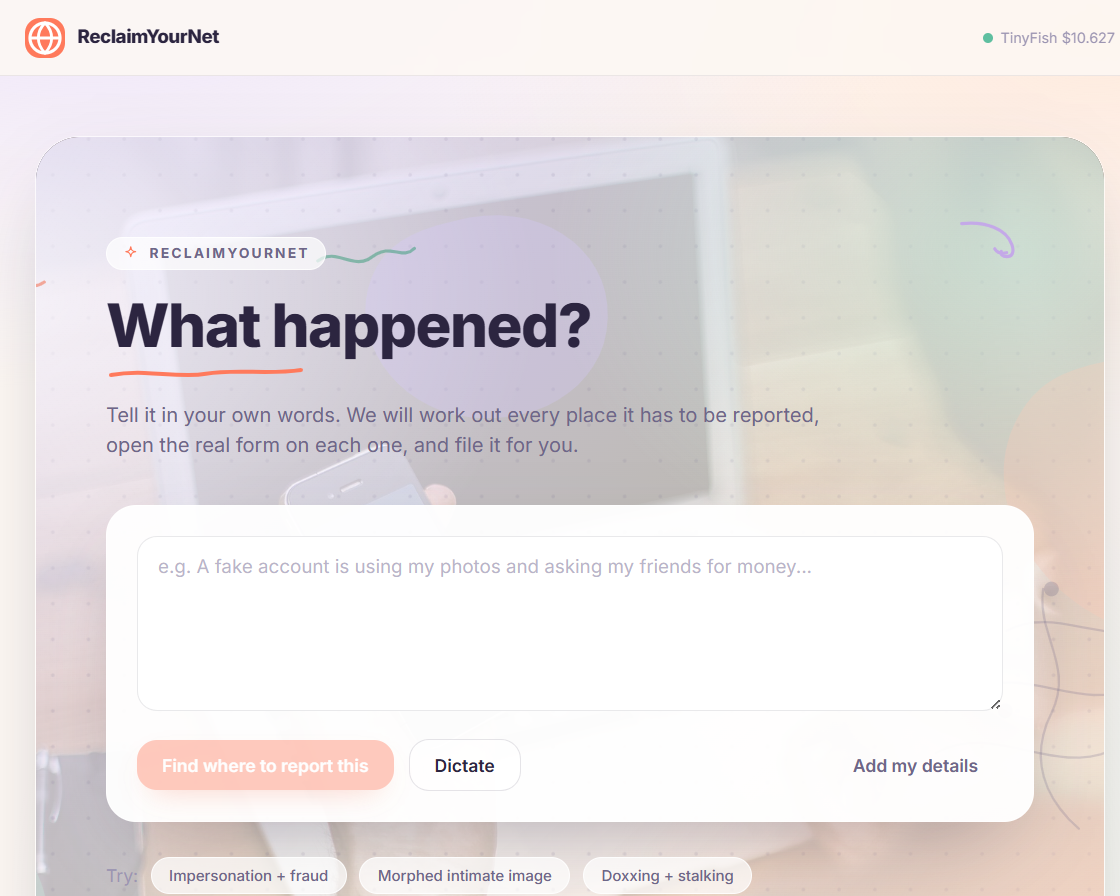
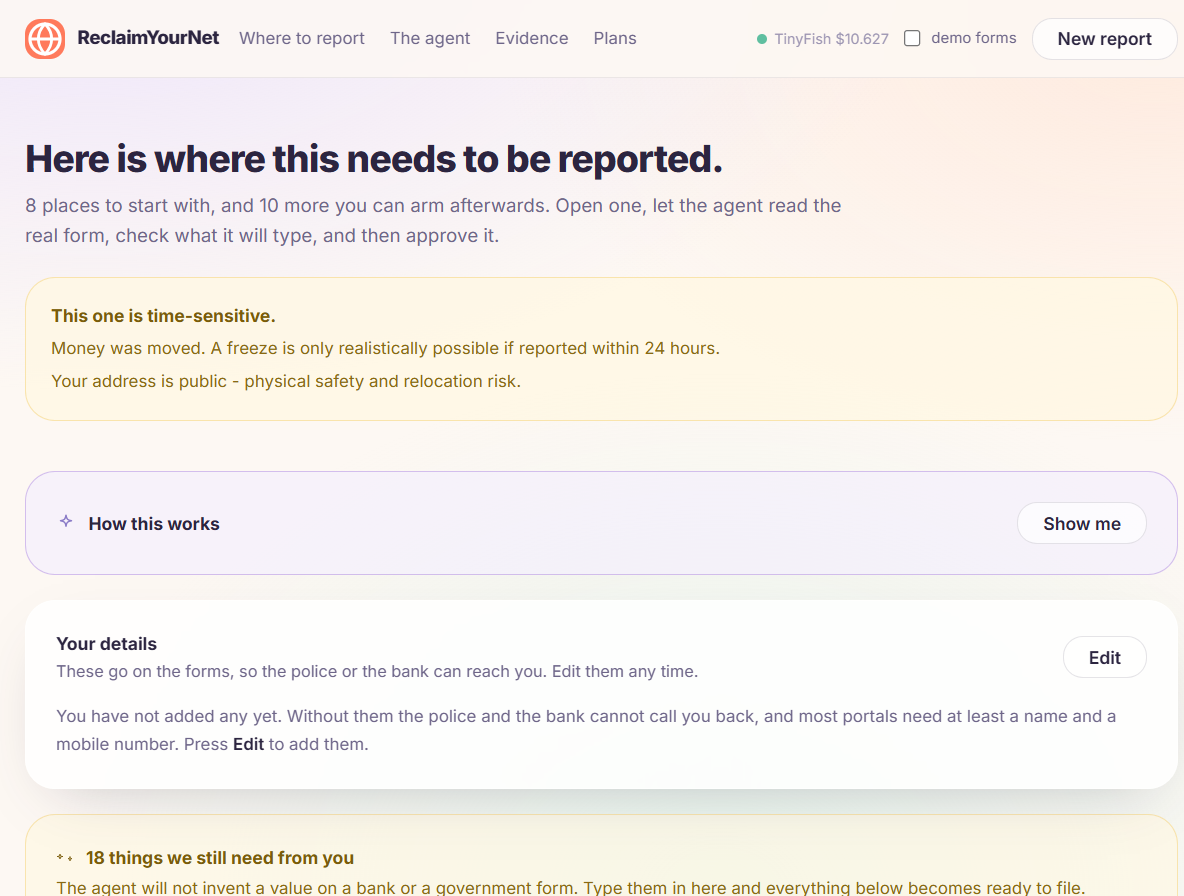
refactor(web): move the 'How this works' guide to the front page
A first-time visitor should understand the flow before they type, not
after. The question box is still the first thing on the page; the guide
sits right below it, open by default, and is gone from the results
page.

diff --git a/apps/web/src/components/HowItWorks.tsx b/apps/web/src/components/HowItWorks.tsx
@@ -25,8 +25,8 @@ const STEPS = [
 ];
 
 /** A short guide so a first-time visitor always knows where they are. */
-export function HowItWorks() {
-  const [open, setOpen] = useState(false);
+export function HowItWorks({ defaultOpen = false }: { defaultOpen?: boolean }) {
+  const [open, setOpen] = useState(defaultOpen);
 
   return (
     <div className="rounded-3xl border border-lilac-300/70 bg-lilac-50/60 p-5 sm:p-6">
@@ -55,7 +55,7 @@ export function HowItWorks() {
           </ol>
           <p className="mt-5 flex items-center gap-2 text-[12.5px] text-muted">
             <ArrowCurve className="h-5 w-8 shrink-0 text-coral-300" />
-            Everything below is step 3 and 4. Nothing gets submitted without you.
+            Nothing is submitted without your approval. Not once, not anywhere.
           </p>
         </>
       )}

diff --git a/apps/web/src/App.tsx b/apps/web/src/App.tsx
@@ -6,7 +6,6 @@ import { CoverageMap } from './components/CoverageMap';
 import { AgentTheatre } from './components/AgentTheatre';
 import { EvidenceVault } from './components/EvidenceVault';
 import { Pricing } from './components/Pricing';
-import { HowItWorks } from './components/HowItWorks';
 import { YourDetails } from './components/YourDetails';
 import { MissingFields } from './components/MissingFields';
 import { Dot, SectionTitle, Tag } from './components/ui';
@@ -216,8 +215,6 @@ export default function App() {
             </div>
 
             <div className="space-y-5">
-              <HowItWorks />
-
               <YourDetails
                 profile={caseFile.profile ?? {}}
                 onSave={async (profile) => {

diff --git a/apps/web/src/components/Intake.tsx b/apps/web/src/components/Intake.tsx
@@ -1,6 +1,7 @@
 import { useEffect, useRef, useState } from 'react';
 import type { Profile } from '../lib/api';
 import { ArrowCurve, Sparkles, Squiggle, Star, Underline } from './Doodles';
+import { HowItWorks } from './HowItWorks';
 
 const EXAMPLES = [
   {
@@ -226,6 +227,10 @@ export function Intake({
 
         <ArrowCurve className="pointer-events-none absolute right-10 top-16 hidden h-9 w-20 animate-drift text-lilac-300 md:block" />
         <Squiggle className="pointer-events-none absolute bottom-16 left-8 hidden h-3.5 w-28 text-mint-300 lg:block" />
+      </div>
+
+      <div className="mt-6">
+        <HowItWorks defaultOpen />
       </div>
     </div>
   );
